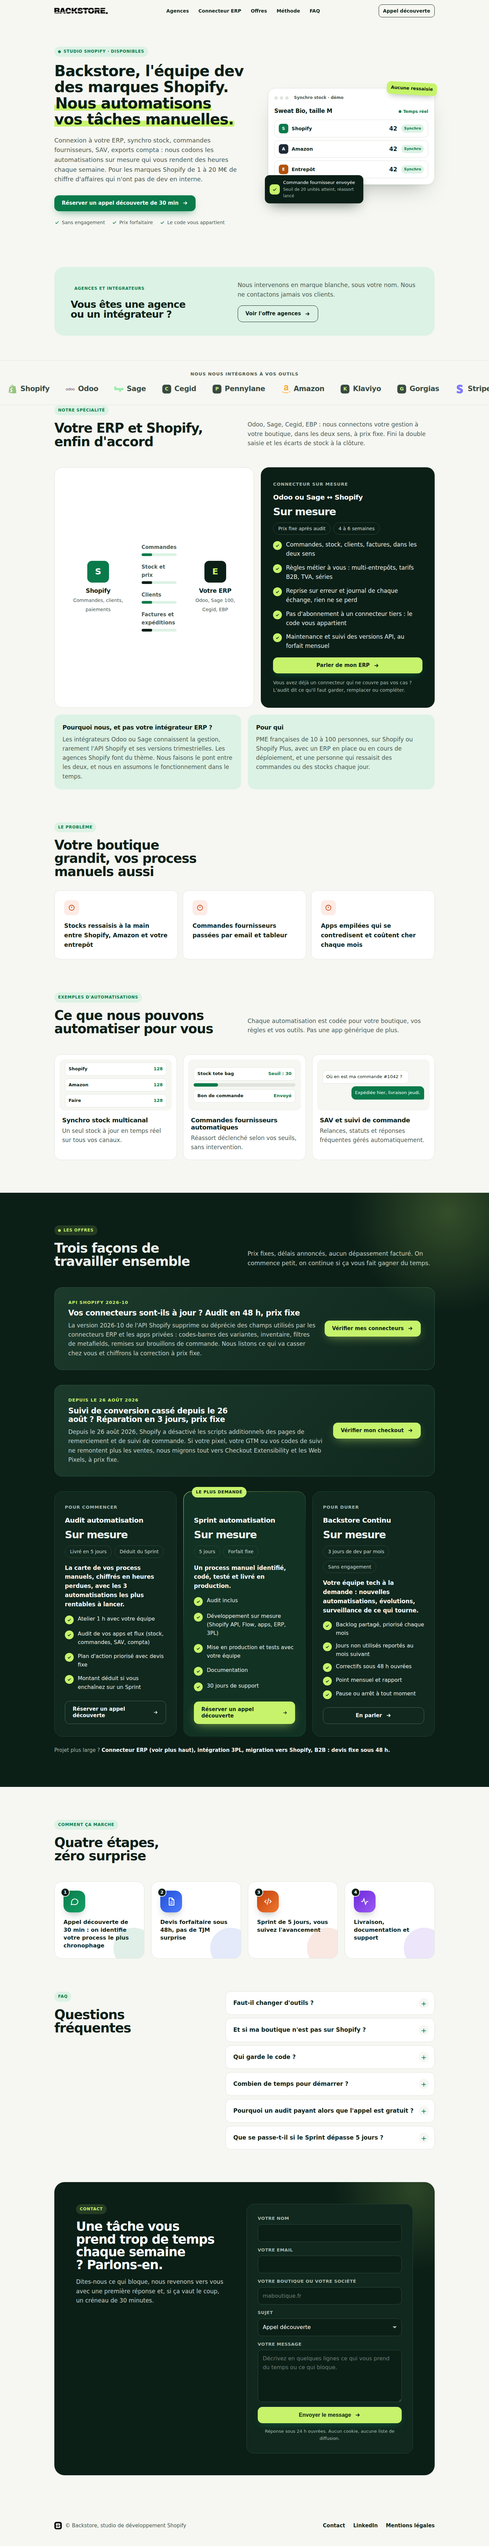
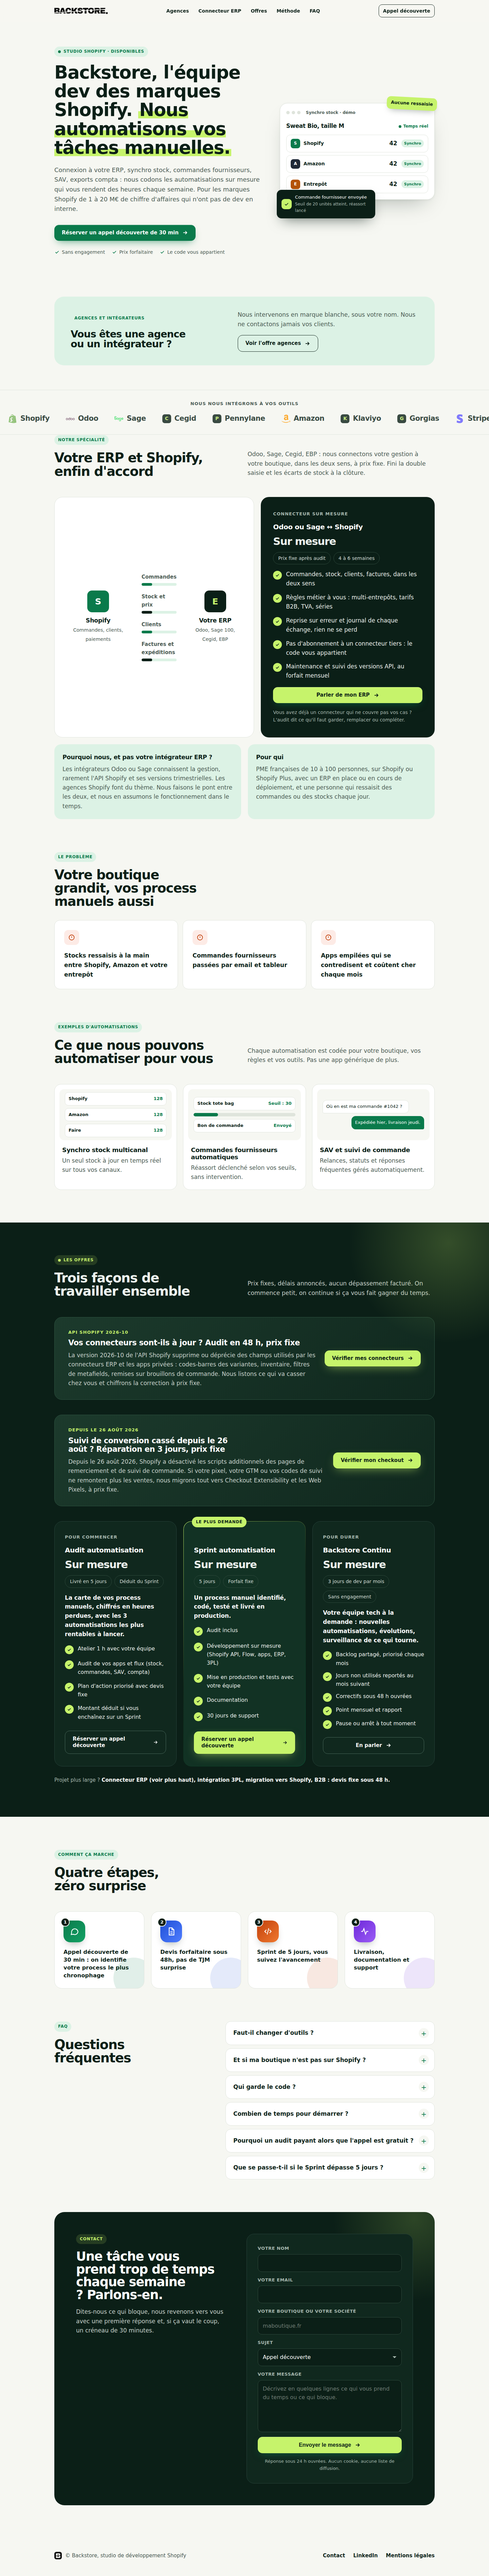
Titre principal remis en grand, colonne du hero élargie
Claude-Session: https://claude.ai/code/session_01ERjPNUzkxskTuGjvPgUDYN

diff --git a/shopify/src/style.css b/shopify/src/style.css
@@ -395,3 +395,6 @@ h1{font-size:clamp(1.85rem,3.6vw,2.75rem)!important;max-width:22ch;line-height:1
 .tag{font-size:12px;padding:5px 11px;margin-bottom:18px}
 .btn{padding:14px 22px;font-size:15px}
 .mock{font-size:14px}
+h1{font-size:clamp(2.2rem,5vw,3.9rem)!important;max-width:18ch;line-height:1.04}
+h1{font-size:clamp(2.2rem,4.4vw,3.3rem)!important;max-width:none;line-height:1.05}
+@media(min-width:1024px){.hero-grid{grid-template-columns:1.35fr 1fr!important;gap:48px!important}}
